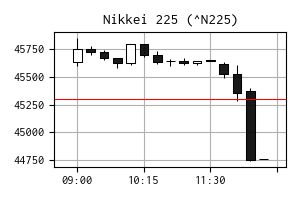
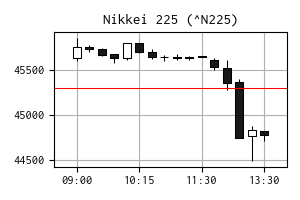
update

diff --git a/training.py b/training.py
@@ -226,7 +226,7 @@ def train_on_file(env: TradingEnv, dir_model: str, dir_output: str, n_epochs: in
 if __name__ == '__main__':
     # Path to your tick data file
     dir_excel = "excel"
-    path_excel = os.path.join(dir_excel, "tick_20250819.xlsx")
+    path_excel = os.path.join(dir_excel, "tick_20250828.xlsx")
     if not os.path.exists(path_excel):
         raise FileNotFoundError(f"{path_excel} not found in working directory")
 
@@ -235,4 +235,4 @@ if __name__ == '__main__':
     dir_model = "models"
     dir_result = "output"
     # training
-    train_on_file(env, dir_model, dir_result, n_epochs=1, seed=12345)
+    train_on_file(env, dir_model, dir_result, n_epochs=100, seed=12345)
